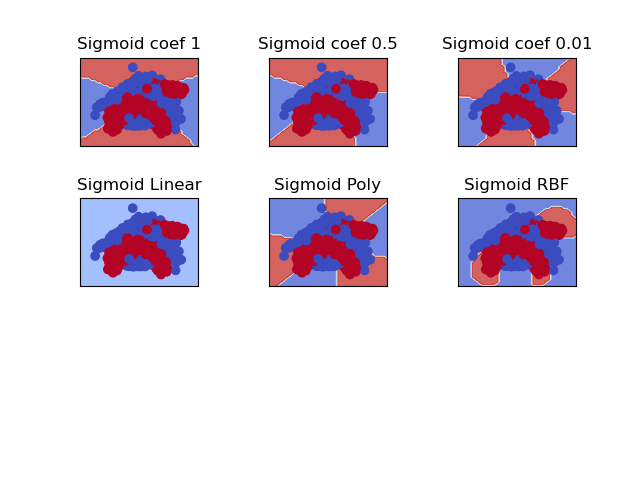
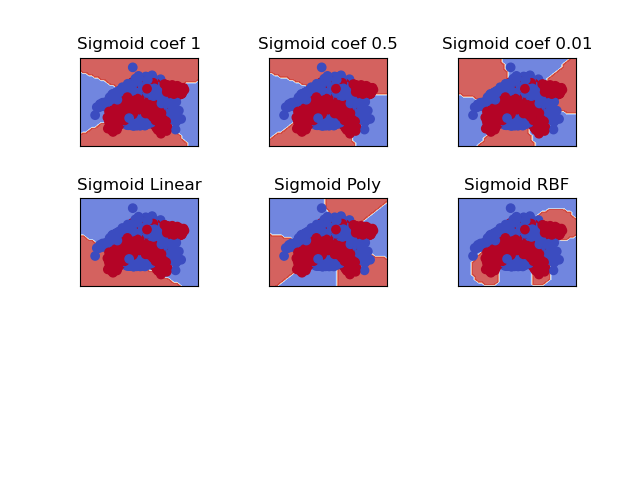
Finalização do Experimento 1 com os resultados obtidos.

diff --git a/experimento-1/SVM/svm.py b/experimento-1/SVM/svm.py
@@ -1,10 +1,11 @@
 import pandas as pd
 import numpy as np
 from sklearn.model_selection import train_test_split, cross_val_score
-from sklearn.svm import SVC
+from sklearn.svm import SVC, LinearSVC
 from sklearn.metrics import classification_report, confusion_matrix
 import matplotlib.pyplot as plt
 import csv
+import seaborn as sns
 
 titles = ['Sigmoid coef 1',
           'Sigmoid coef 0.5',
@@ -14,16 +15,28 @@ titles = ['Sigmoid coef 1',
           'Sigmoid RBF']
 
 
+def generateScatter(dataset):
+    color_dict = dict({1.0: 'red',
+                       -1.0: 'dodgerblue'})
+    scatter = sns.scatterplot(x="at1", y="at2", hue="Label",
+                              data=dataset, palette=color_dict)
+    scatter.set(xlabel='Attribute 1', ylabel='Attribute 2')
+    plt.savefig('initial-scatter.png')
+
+
 def setupDataset(dataset):
-    X = dataset.drop('classe', axis=1)
-    y = dataset['classe']
+    X = dataset.drop('Label', axis=1)
+    y = dataset['Label']
 
     X_train, X_test, y_train, y_test = train_test_split(X, y, test_size=0.20)
     return X, y, X_train, X_test, y_train, y_test
 
 
 def applyKernel(kernelType, X_train, X_test, y_train, coef0=0.0):
-    classifier = SVC(kernel=kernelType, coef0=coef0)
+    if(kernelType == 'linear'):
+        classifier = LinearSVC(C=1.0)
+    else:
+        classifier = SVC(kernel=kernelType, coef0=coef0)
     classifier.fit(X_train, y_train)
     predY = classifier.predict(X_test)
     return classifier, predY
@@ -75,6 +88,7 @@ def generateGraphs(X, y, classifiers, h=0.2):
 
 
 dataset = pd.read_csv("../data/banana.csv")
+generateScatter(dataset)
 X, y, X_train, X_test, y_train, y_test = setupDataset(dataset)
 
 classifierSigmoid1, predSigmoidY1 = applyKernel(
@@ -98,5 +112,5 @@ evaluateKernel(y_test, predPolyY, 'poly', classifierPoly)
 classifierRBF, predRBFY = applyKernel('rbf', X_train, X_test, y_train)
 evaluateKernel(y_test, predRBFY, 'RBF', classifierRBF)
 
-plt = generateGraphs(X.to_numpy(), y.to_numpy(dtype=np.int64), enumerate((classifierSigmoid1,
-                                                                          classifierSigmoid05, classifierSigmoid001, classifierLinear, classifierPoly, classifierRBF)))
+generateGraphs(X.to_numpy(), y.to_numpy(dtype=np.int64), enumerate((classifierSigmoid1,
+                                                                    classifierSigmoid05, classifierSigmoid001, classifierLinear, classifierPoly, classifierRBF)))
